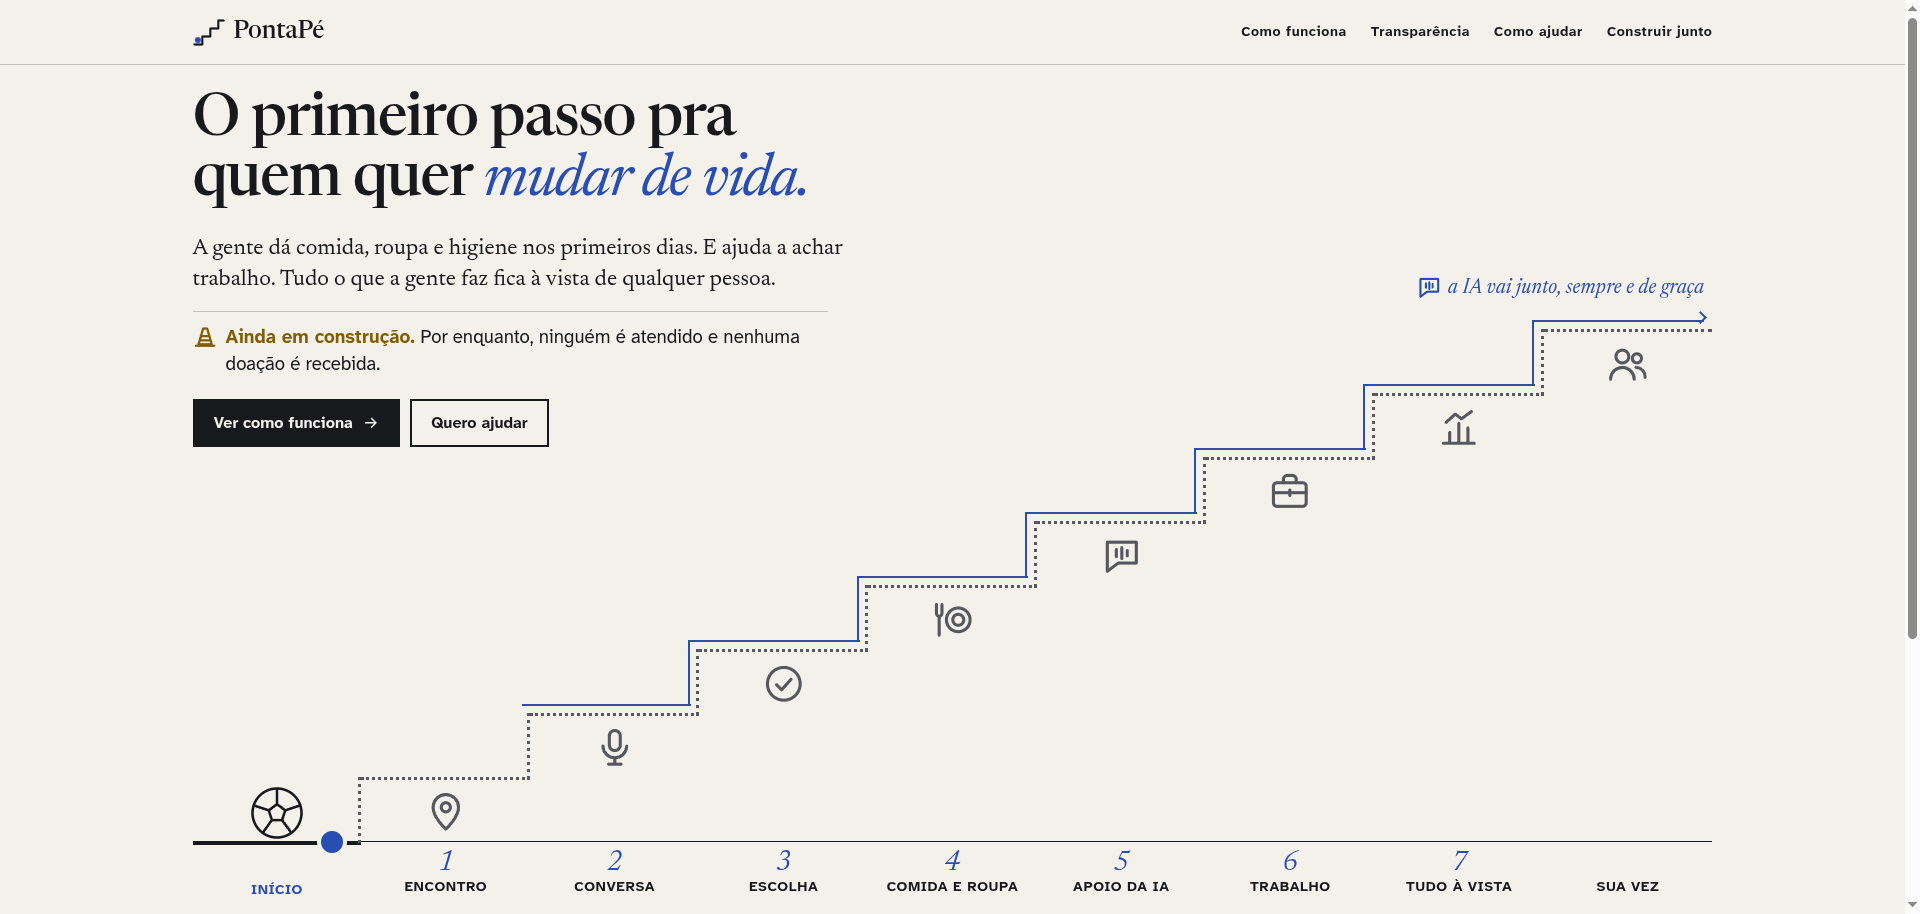
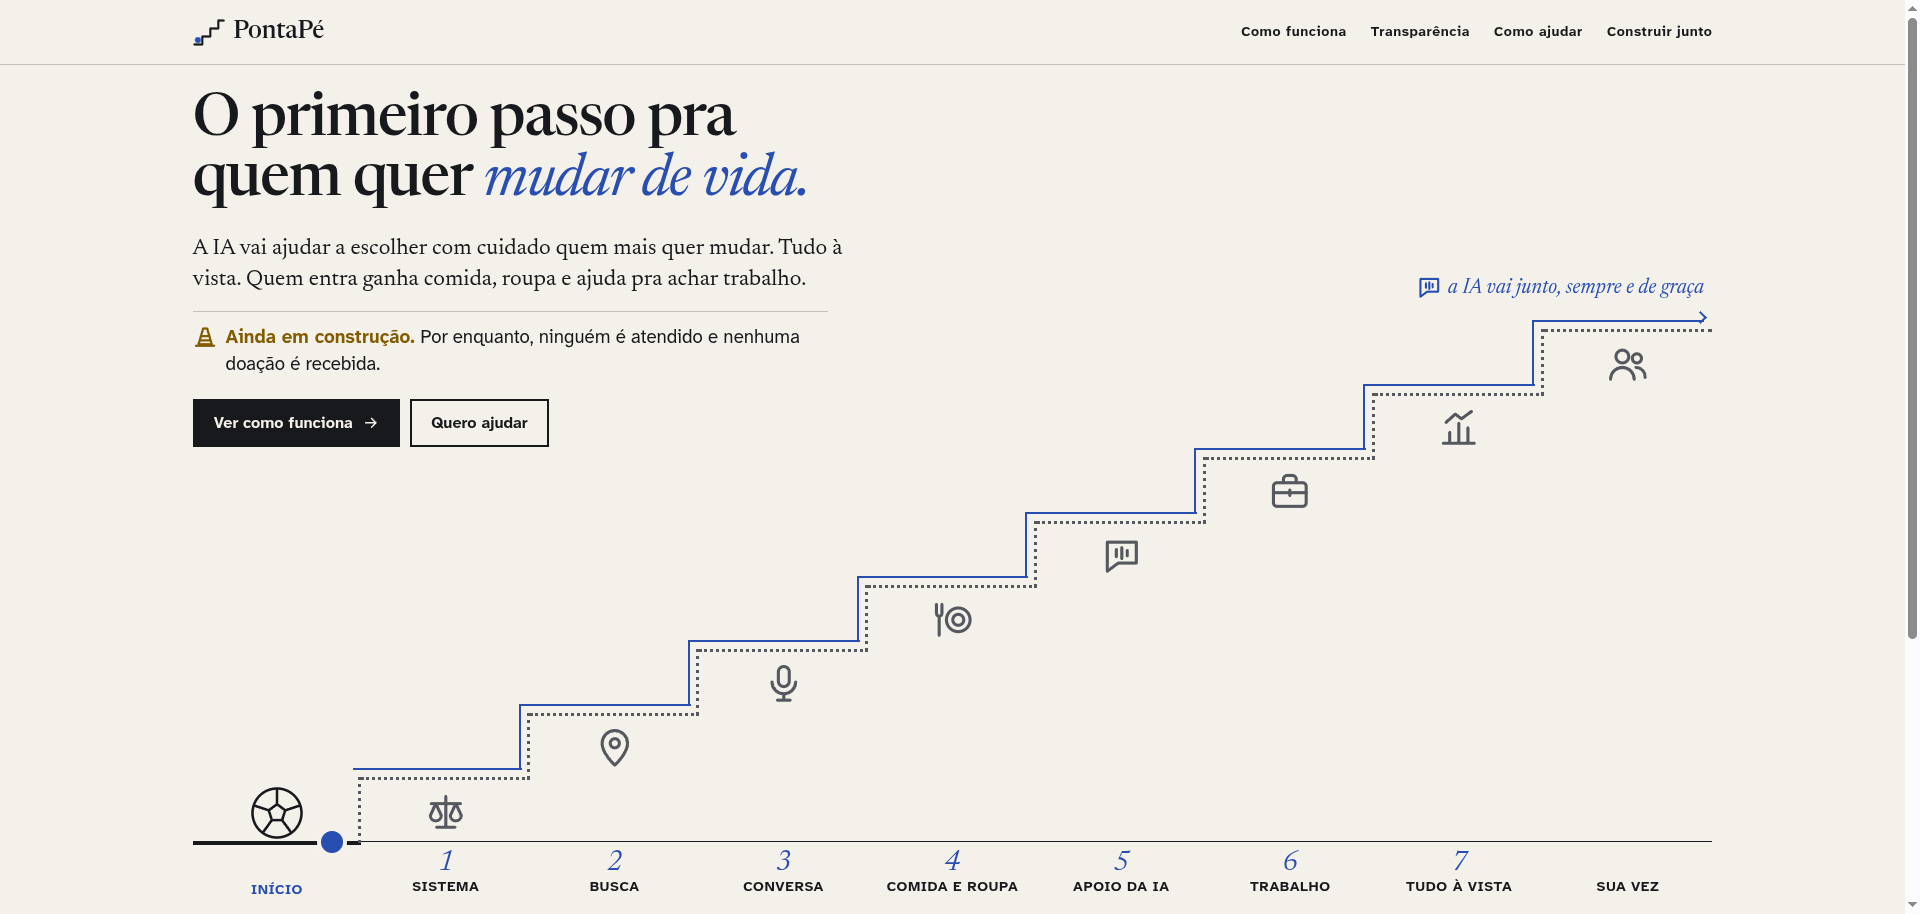
F36: prints refeitos depois do rebase na F37
A linha da IA começa no Sistema, o passo 1 marcado com aiFrom pela F37.
Mesma medida de antes do rebase.

diff --git a/docs/frentes/F36-escada-meio-termo/DIARIO.md b/docs/frentes/F36-escada-meio-termo/DIARIO.md
@@ -78,7 +78,7 @@ Proposta escrita, report pro Regente e combinação do campo com o Design/UI. Pr
 
 Branch `prumo/f36-volta`.
 
-- O bloco da escada no `site.css` e o `Escada.astro` voltaram ao que eram em `00624f1` (a `main` das 11:47): linha da IA na faixa embaixo dos nomes, a partir da Conversa, rótulo e ícone de antes, limite de tela baixa em 700. Só com `--accent` no lugar de `--red`. Isso desfaz a #83, a parte da escada da #82 e a #81.
+- O bloco da escada no `site.css` e o `Escada.astro` voltaram ao que eram em `00624f1` (a `main` das 11:47): linha da IA na faixa embaixo dos nomes, rótulo e ícone de antes, limite de tela baixa em 700. Só com `--accent` no lugar de `--red`. Isso desfaz a #83, a parte da escada da #82 e a #81.
 - No lugar da reserva do Cores, o ar embaixo (só no computador, onde a escada ocupa a tela): `--air` = de 2,5rem a 4,5rem, conforme a altura da janela, e o mínimo da primeira tela passa a ser 41,5rem de palco mais o ar. O palco fica igual ao de antes em toda janela.
 
 Medido na bancada, com os degraus 0, 1, 7 e 8 abertos (px de CSS):
@@ -98,7 +98,9 @@ Conferência de que a medida vale: o print da `main` na bancada, na janela do Lu
 
 Celular e tablet voltam ao antes também. E volta o problema do meio-dia, em todo tamanho: no computador o número encosta no chão ou passa até 2 px dele, e o ícone do Encontro entra de 1 a 8 px no "1" (8 no tablet de 960×600). É o que a PR 2 conserta. Sem rolagem lateral em 360 e 390.
 
-`npm run check` passa (home com 21,8 KB de 60). Prints `prints/volta-antes-*` (`main` em `9de590d`) e `prints/volta-depois-*`, degrau 0 e Encontro aberto, na janela do Lucas, 1920×914, 1920×1080, 1440×900, 1366×768, 390 e 360.
+`npm run check` passa (home com 21,8 KB de 60). Prints `prints/volta-antes-*` (`main` em `74628ca`, já com a F37) e `prints/volta-depois-*`, degrau 0 e passo 1 aberto, na janela do Lucas, 1920×914, 1920×1080, 1440×900, 1366×768, 390 e 360.
+
+**Rebase na F37 (#88, `ffff034`).** A F37 já tinha trazido o `aiFrom` pro `journey.ts` (marcado no Sistema, o passo 1), o `RAIL_FROM` a partir dele, o `sr-only` com o nome do passo e a frase de abertura como `OPENING`. Tudo isso ficou; do `Escada.astro` saíram só as classes do corrimão, e o `--rail-from` voltou pra linha. Com o Sistema no passo 1, a linha da IA começa embaixo dele, com o ícone e a frase, e segue até a seta depois do Sua vez. Medida e prints refeitos depois do rebase: a mesma de antes, com a linha começando no Sistema.
 
 ### Onde parei
 
